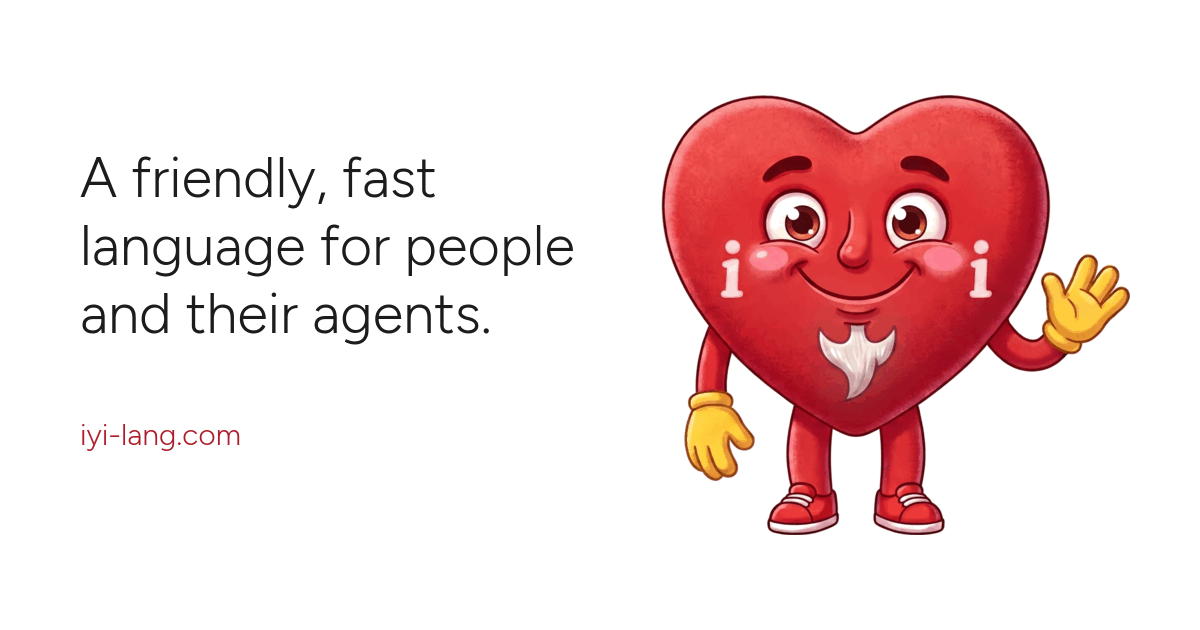
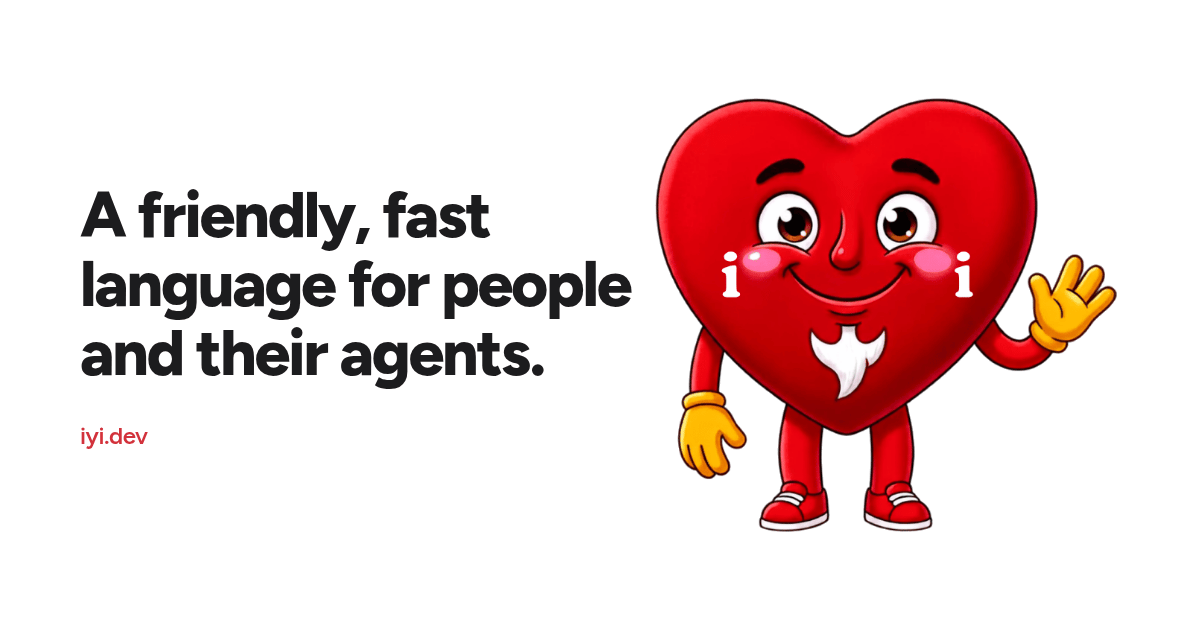
improve mascot and images

Changed region(s): [[0.5242, 0.1508, 0.9558, 0.8746], [0.0617, 0.2413, 0.5242, 0.6333], [0.0617, 0.6635, 0.185, 0.7238]]

diff --git a/doc/ART-DIRECTION.md b/doc/ART-DIRECTION.md
@@ -23,7 +23,7 @@ compete with it.
 
 ## The mascot
 
-`src/assets/mascot.webp`, cut out of its background so it sits on the page
+`src/assets/mascot.png`, cut out of its background so it sits on the page
 ground in either scheme. It appears in four places and no more: large in the
 hero, small beside the wordmark in the header, at the foot of every page, and
 as the favicon, cropped to the face. It is
